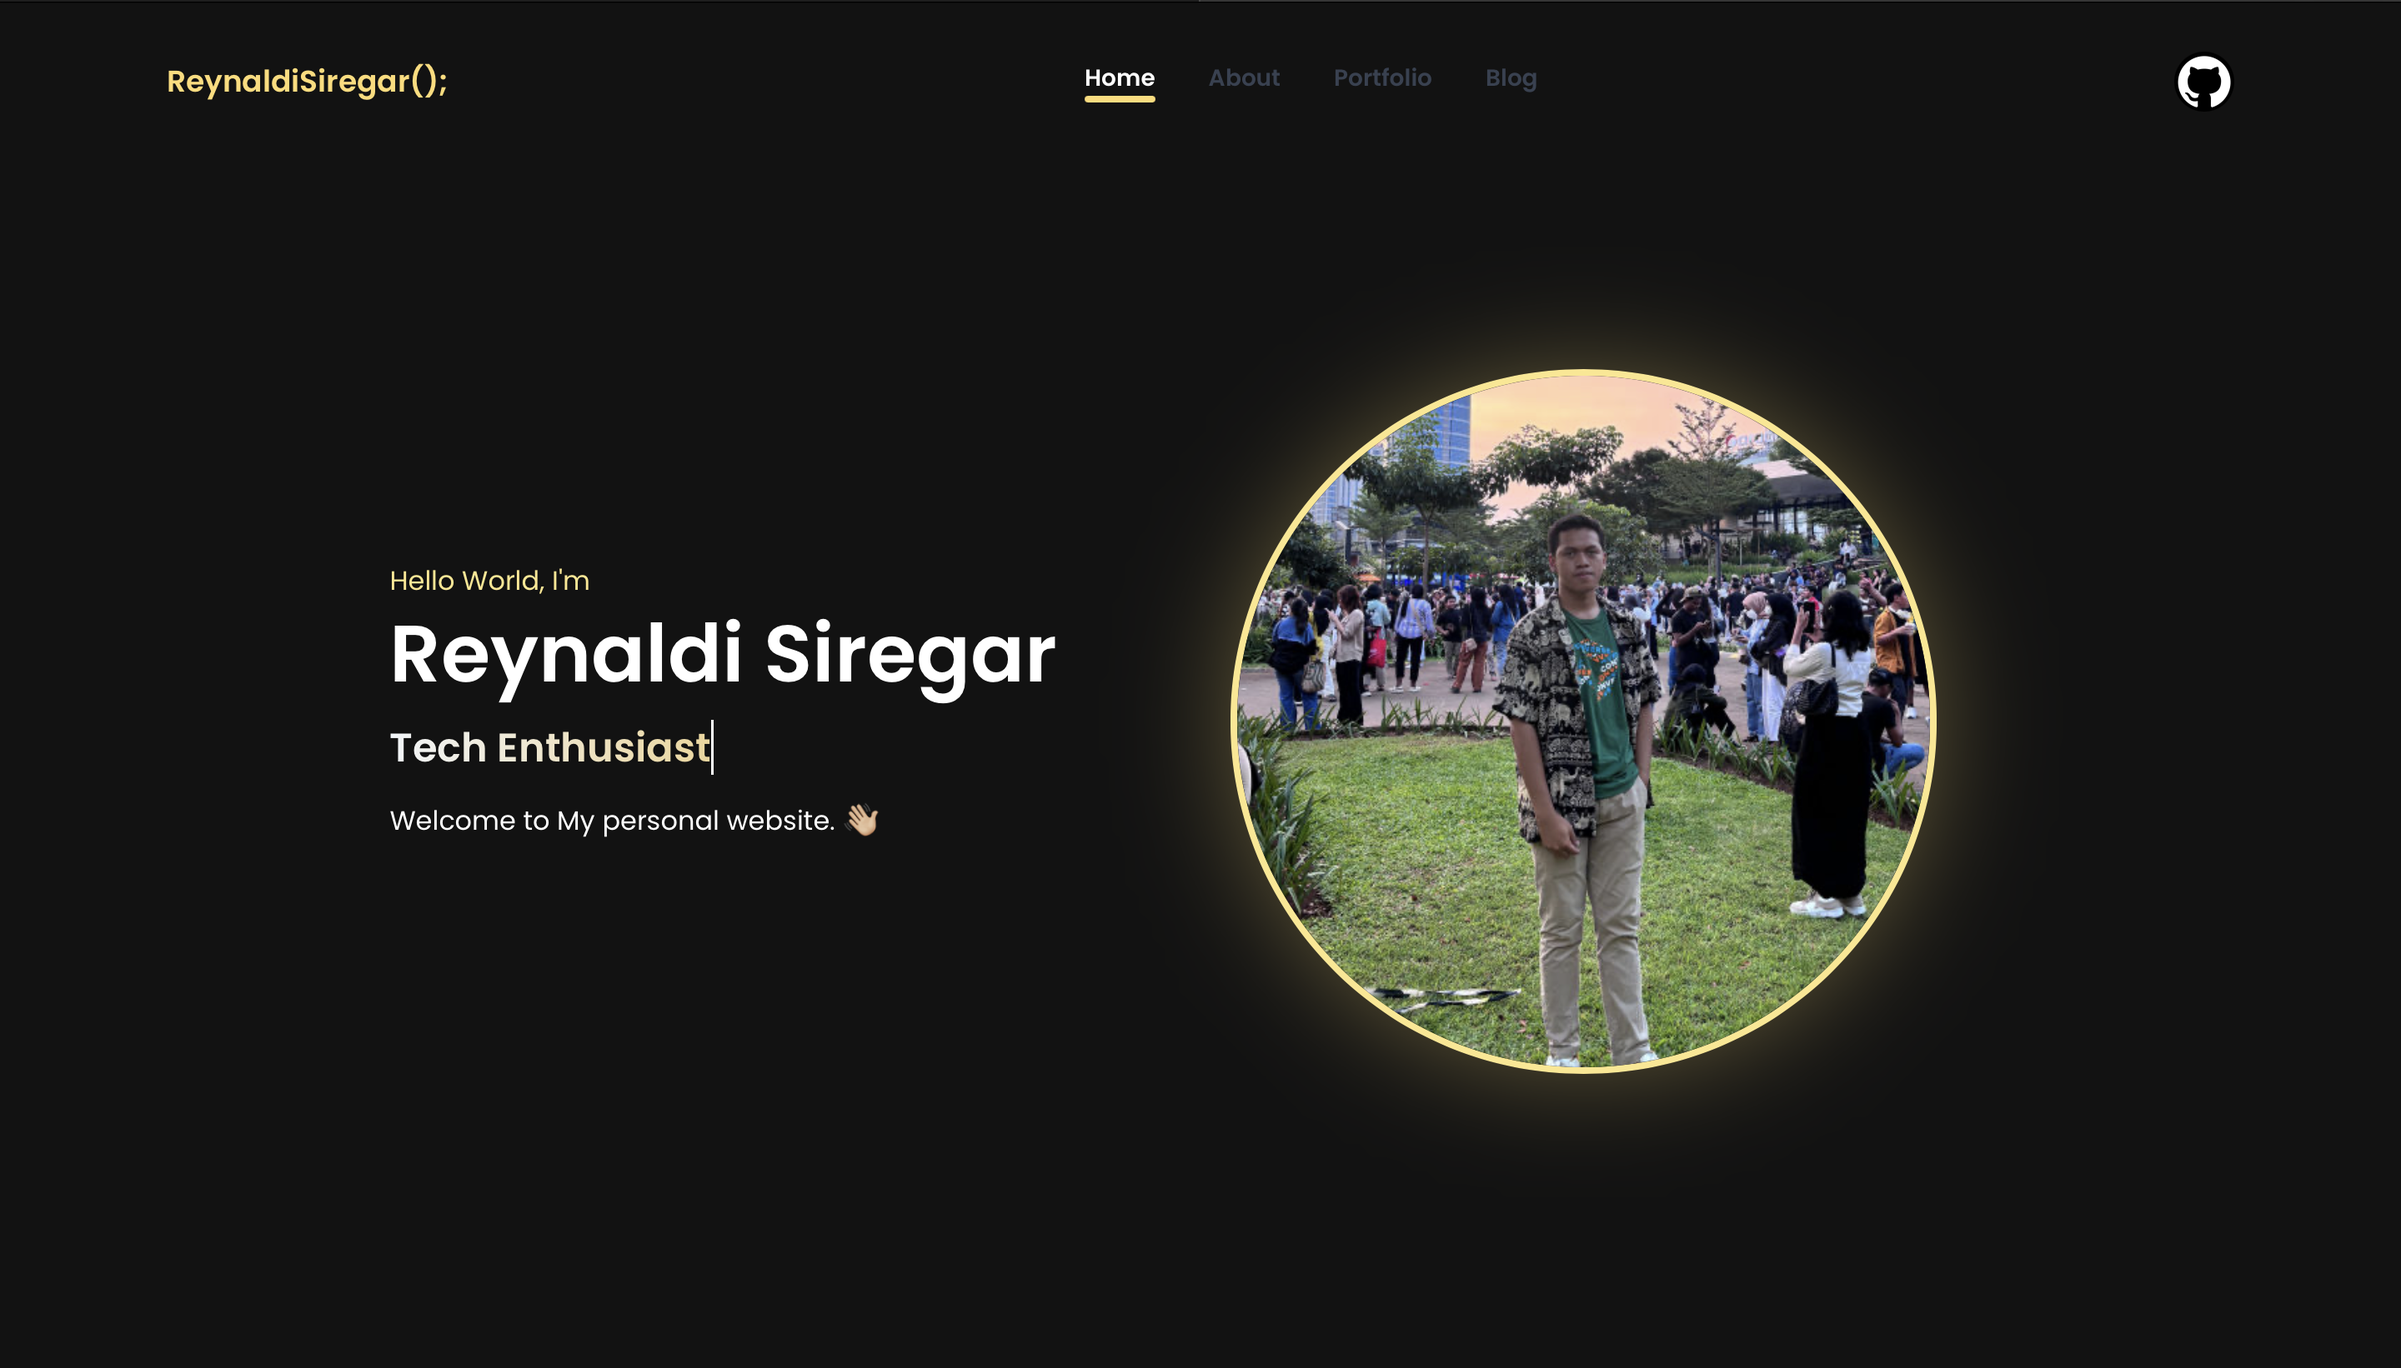
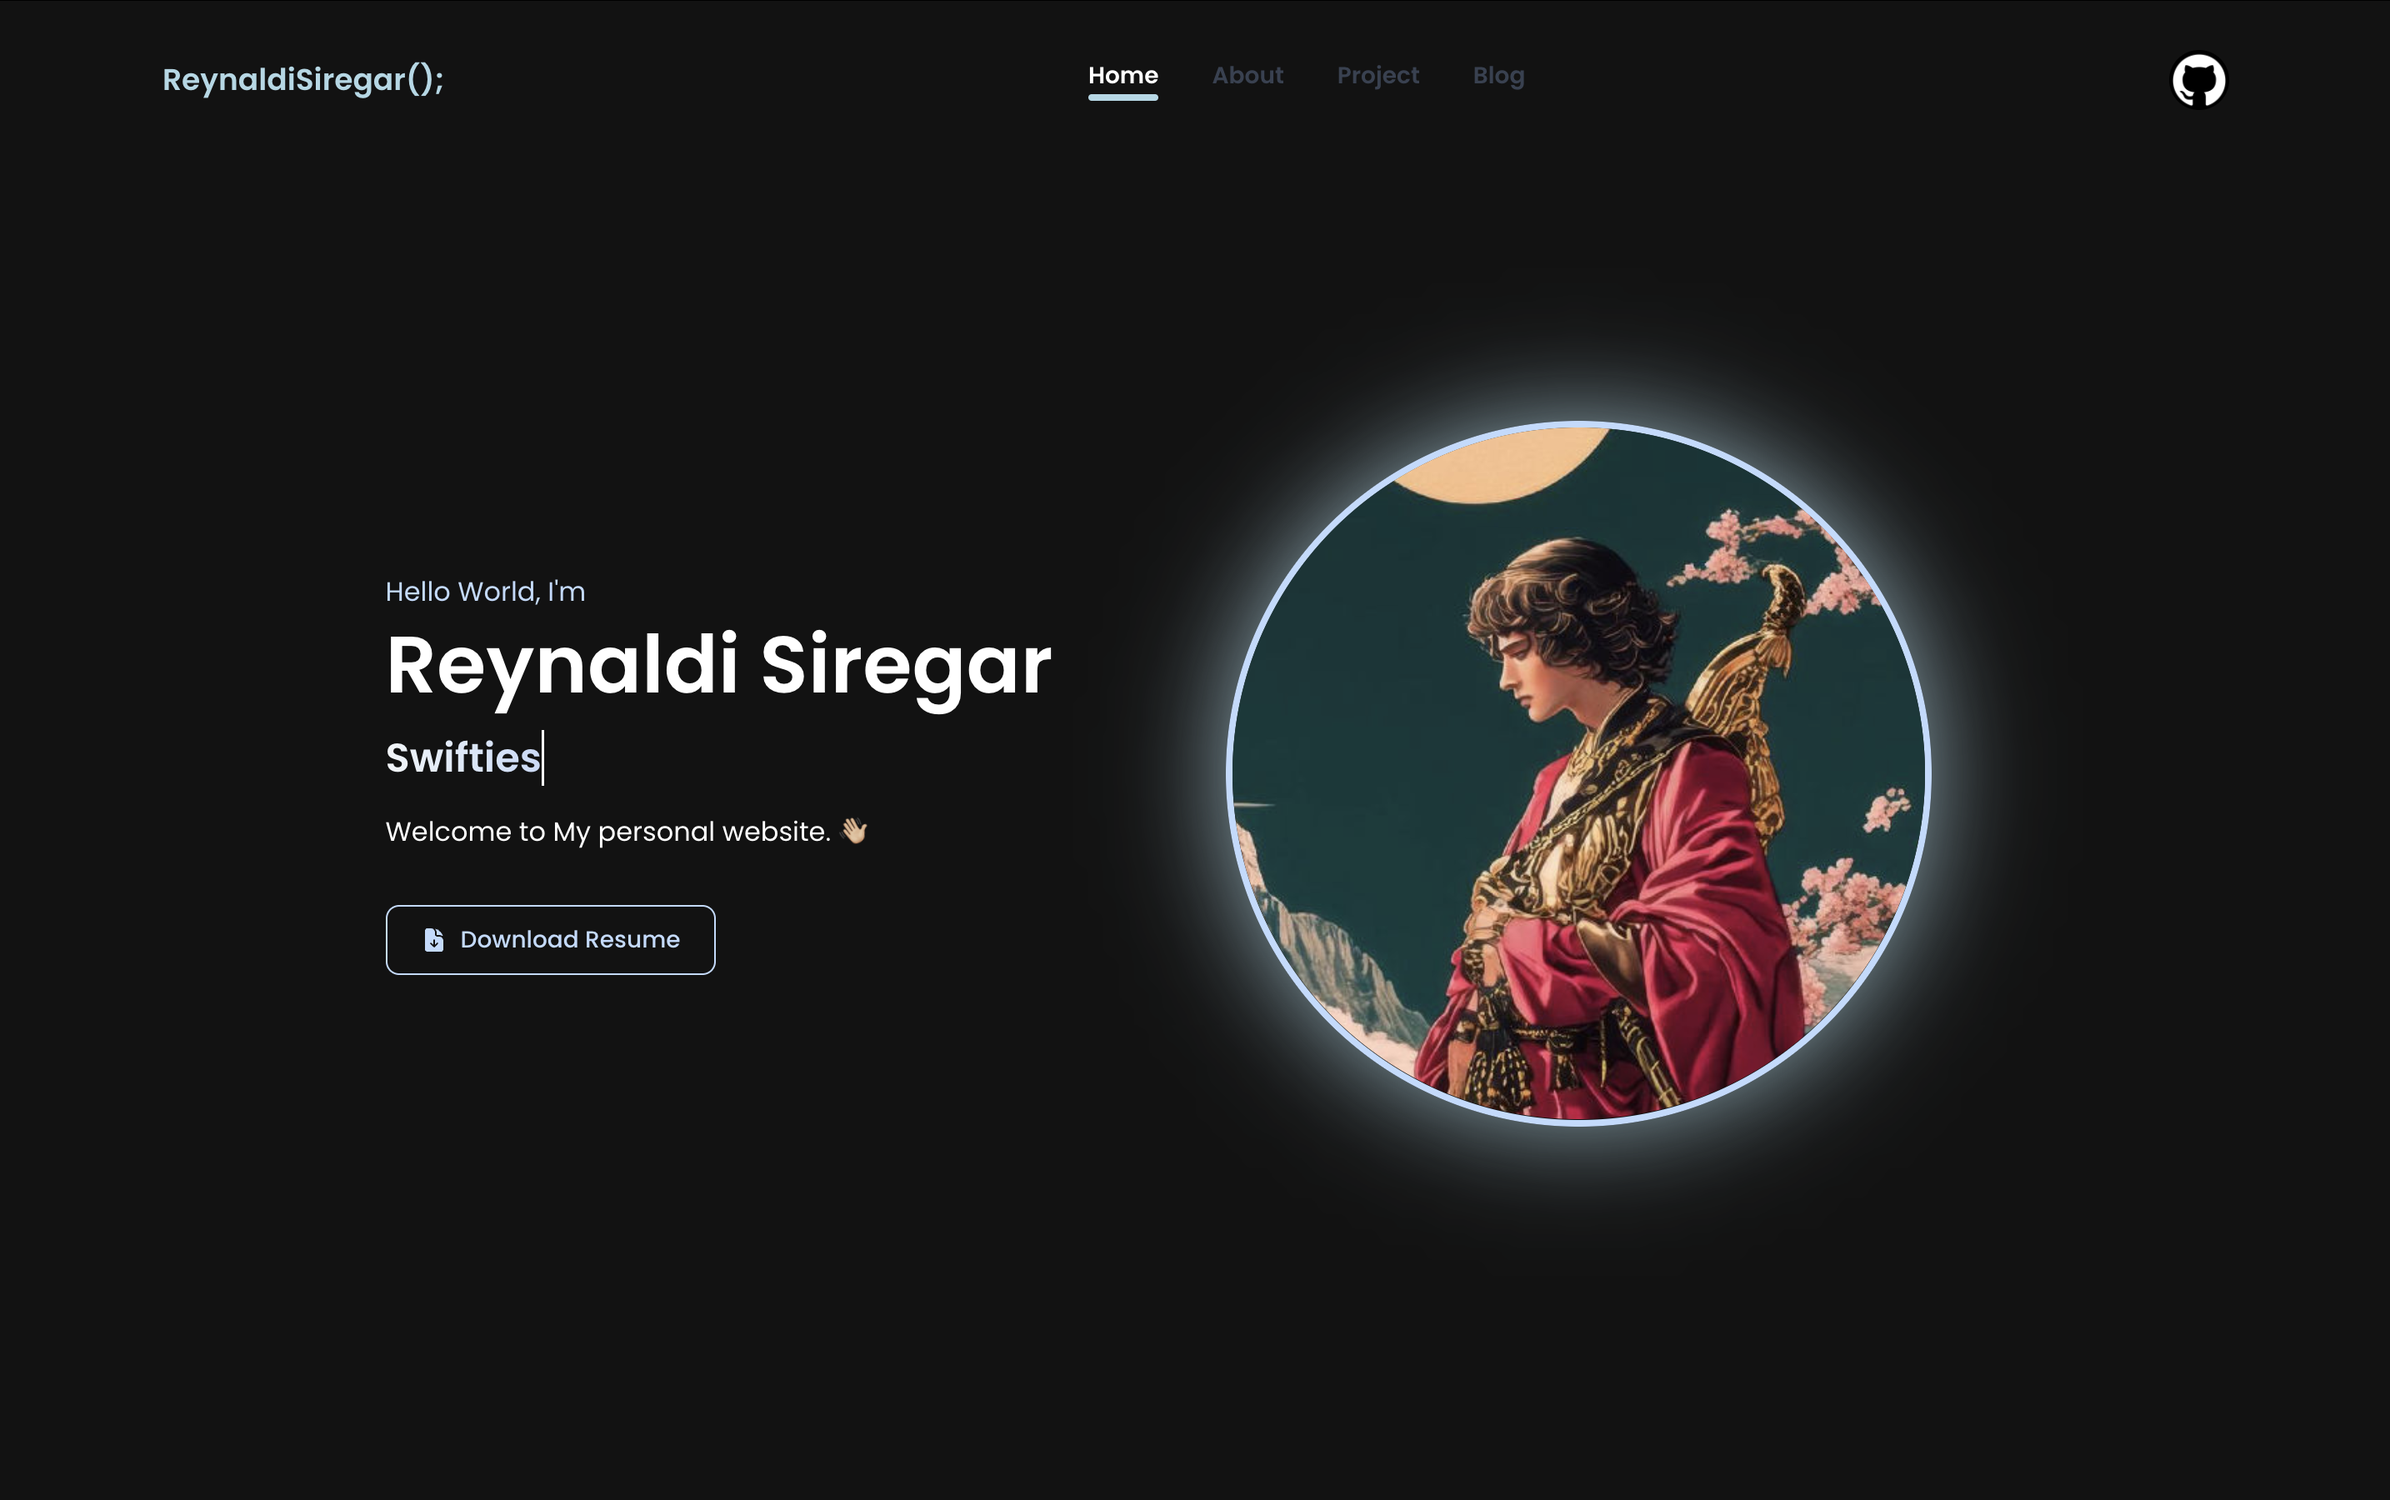
final changes

diff --git a/src/App.vue b/src/App.vue
@@ -43,7 +43,7 @@
   <nav class="flex justify-around py-4 text-xs">
     <router-link to="/" class="text-gray-300 hover:text-white">Home</router-link>
     <router-link to="/about" class="text-gray-300 hover:text-white">About</router-link>
-    <router-link to="/portfolio" class="text-gray-300 hover:text-white">Portfolio</router-link>
+    <router-link to="/portfolio" class="text-gray-300 hover:text-white">Project</router-link>
     <router-link to="/blog" class="text-gray-300 hover:text-white">Blog</router-link>
   </nav>
 </footer>

diff --git a/src/router/index.js b/src/router/index.js
@@ -18,7 +18,7 @@ const routes = [
     path: '/portfolio',
     name: 'portfolio',
     component: () => import('../views/PortfolioView.vue'),
-    meta: { title: 'Portfolio' }
+    meta: { title: 'Project' }
   },
   {
     path: '/blog',
